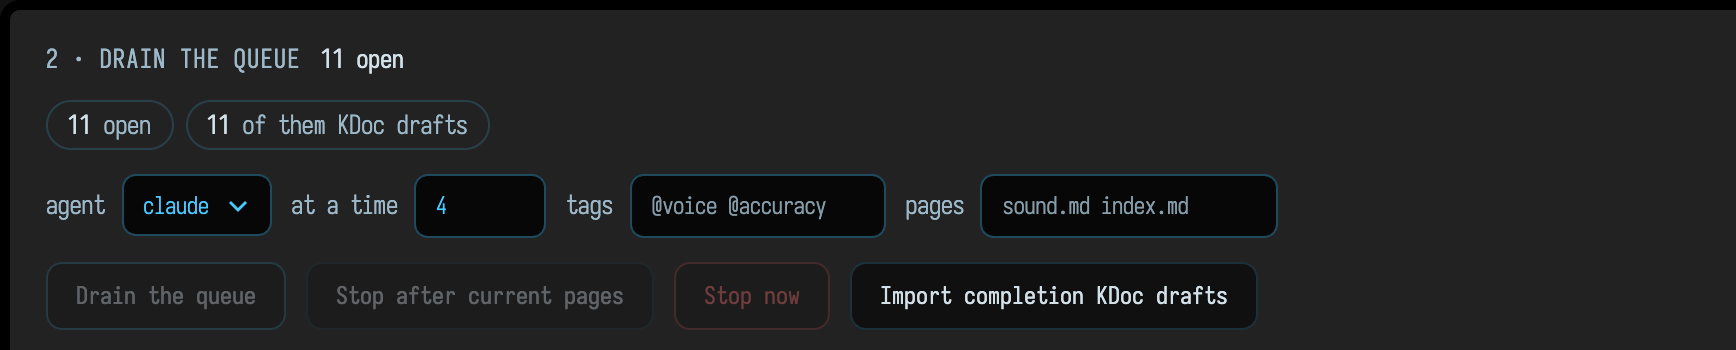
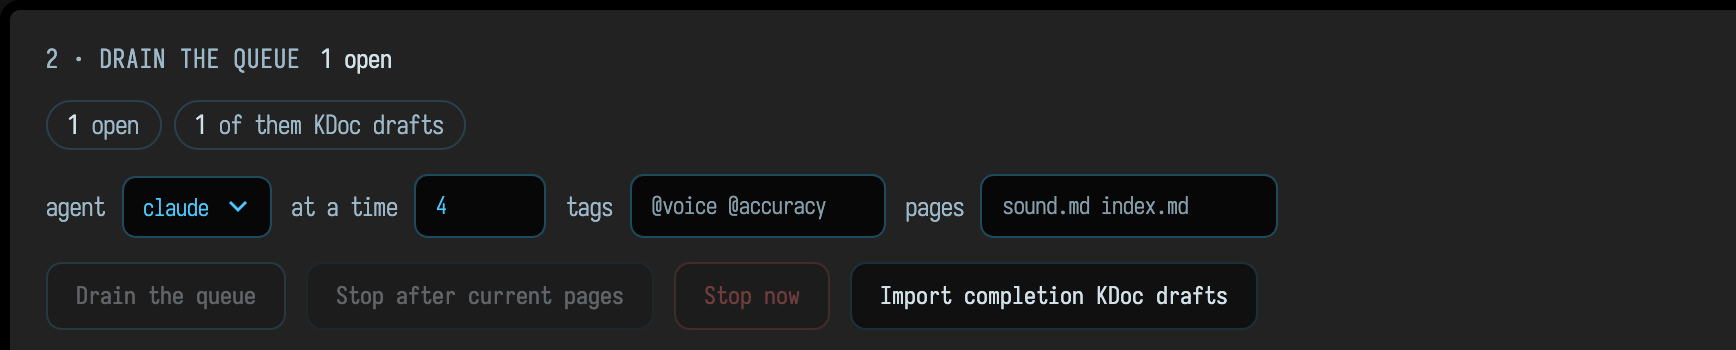
Docs: the KDoc-draft captures read a committed drafts cache
ai_doc_polish's import capture waited 150 s for a draft chip that never
came. Its input was whatever completion had cached in the checkout's
untracked .field/filestore: nothing in a fresh clone, and here one draft
whose file the package cutover had moved, so import-drafts counted it
"outside".

- import_drafts follows a moved file: the one tracked src/ file of the
  same name that still declares the symbol.
- AFIELD_COMPLETION_DRAFTS_FILE points the drafts cache at one file
  (Kotlin and docs_notes.py); the docs runner gives its Field a fresh copy
  of tools/docs_runner_inputs/generated_completion_docs.json, a real
  model draft copied verbatim.
- test_docs_runner_inputs fails at landing when that draft stops
  importing, instead of the docs build failing an hour in.
- Recaptured both ai_doc_polish figures from it.

diff --git a/src/jvmMain/kotlin/afield/ai/completion/Ai4CompletionDoc.kt b/src/jvmMain/kotlin/afield/ai/completion/Ai4CompletionDoc.kt
@@ -742,7 +742,7 @@ internal data class GeneratedCompletionDocCacheDb(
  * against a broken [cacheKey].
  */
 internal class GeneratedCompletionDocCache(
-    private val dbPath: Path = FilestoreDir.resolve(GENERATED_COMPLETION_DOCS_FILE)
+    private val dbPath: Path = generatedCompletionDocsPath()
 ) {
     private val mapper = OpenAiFileStoreCache.defaultMapper()
     private val lock = ReentrantReadWriteLock()
@@ -900,3 +900,15 @@ internal class GeneratedCompletionDocCache(
         }
     }
 }
+
+/**
+ * Points the drafts cache at one file, leaving the rest of the filestore where it is. The docs runner
+ * sets it to a fresh copy of a committed cache, so its captures of the drafts read the same input on
+ * every machine; `tools/docs_notes.py` (`DRAFT_CACHE_ENV`) honours it too.
+ */
+const val GENERATED_COMPLETION_DOCS_ENV = "AFIELD_COMPLETION_DRAFTS_FILE"
+
+/** The drafts cache: [GENERATED_COMPLETION_DOCS_ENV] when set, else [GENERATED_COMPLETION_DOCS_FILE] in the filestore. */
+fun generatedCompletionDocsPath(): Path =
+    System.getenv(GENERATED_COMPLETION_DOCS_ENV)?.trim()?.takeIf { it.isNotEmpty() }?.let { Paths.get(it) }
+        ?: FilestoreDir.resolve(GENERATED_COMPLETION_DOCS_FILE)

diff --git a/src/jvmMain/kotlin/afield/runtime/completion/CompletionDocDrafts.kt b/src/jvmMain/kotlin/afield/runtime/completion/CompletionDocDrafts.kt
@@ -20,7 +20,7 @@ import afield.media.video.*
 import afield.runtime.lifecycle.map
 import afield.ui.output.templates.filter
 import afield.ai.completion.Ai4CompletionDoc
-import afield.ai.completion.GENERATED_COMPLETION_DOCS_FILE
+import afield.ai.completion.generatedCompletionDocsPath
 import kotlinx.serialization.json.Json
 import kotlinx.serialization.json.contentOrNull
 import kotlinx.serialization.json.jsonObject
@@ -40,7 +40,7 @@ object CompletionDocDrafts {
     private val json = Json { ignoreUnknownKeys = true }
 
     fun summary(): CompletionDocDraftSummary {
-        val cachePath = afield.ai.knowledge.FilestoreDir.resolve(GENERATED_COMPLETION_DOCS_FILE)
+        val cachePath = generatedCompletionDocsPath()
         if (!Files.exists(cachePath)) {
             return CompletionDocDraftSummary(cachePath.absolutePathString(), message = "No KDoc drafts yet.")
         }

diff --git a/tools/docs_notes.py b/tools/docs_notes.py
@@ -104,6 +104,8 @@ REQUEST_KINDS = ("note", DRAFT_KIND)
 DRAFT_CACHE_FILE = "generated_completion_docs.json"
 DRAFT_DECLINED_FILE = "generated_completion_docs.declined.json"
 FILESTORE_ENV = "AFIELD_FILESTORE_DIR"
+# One file for the drafts cache, the rest of the filestore untouched; `GENERATED_COMPLETION_DOCS_ENV` in Kotlin.
+DRAFT_CACHE_ENV = "AFIELD_COMPLETION_DRAFTS_FILE"
 
 ENTRY_KINDS = ("comment", "memory", "question", "reply", "resolution", "reopen", "run", "handoff", "blocked", "unblocked")
 HANDOFF_DIR = "dev_docs/handoffs"
@@ -1069,9 +1071,11 @@ _DECLARATION_KEYWORDS = r"(?:fun|val|var|class|interface|object|typealias|enum\s
 
 
 def draft_cache_path(git: Git, explicit: str | None = None) -> Path:
-    """Where Field keeps the drafts: `$AFIELD_FILESTORE_DIR`, else `.field/filestore/` in the checkout."""
+    """Where Field keeps the drafts: `$AFIELD_COMPLETION_DRAFTS_FILE`, else in `$AFIELD_FILESTORE_DIR`, else `.field/filestore/` in the checkout."""
     if explicit:
         return Path(explicit).expanduser().resolve()
+    if os.environ.get(DRAFT_CACHE_ENV, "").strip():
+        return Path(os.environ[DRAFT_CACHE_ENV].strip()).expanduser().resolve()
     configured = os.environ.get(FILESTORE_ENV, "").strip()
     base = Path(configured).expanduser() if configured else git.root / ".field" / "filestore"
     return (base / DRAFT_CACHE_FILE).resolve()
@@ -1178,6 +1182,19 @@ def draft_note_id(key: str) -> str:
     return "draft-" + key[:24]
 
 
+def relocate_moved_source(git: Git, path: str, name: str) -> str | None:
+    """Where a draft's file went when *path* is gone: the one tracked file of the same name under
+    `src/` that still declares *name*. The cache keeps the path completion saw, so a package move
+    (the October hierarchy cutover moved most of `src/`) would otherwise turn every draft "outside"."""
+    basename = path.rsplit("/", 1)[-1]
+    found = []
+    for candidate in git.run("ls-files", "--", f"src/*/{basename}", check=False).split("\n"):
+        candidate = candidate.strip()
+        if candidate.endswith("/" + basename) and locate_declaration(git.show(None, candidate) or "", name, 0) is not None:
+            found.append(candidate)
+    return found[0] if len(found) == 1 else None
+
+
 def import_drafts(store: Store, git: Git, cache: Path, *, limit: int = 0,
                   log: Callable[[str], None] = lambda _m: None) -> dict[str, int]:
     """Add a `kdoc-draft` note for every cached draft that is ours to edit and not yet a note."""
@@ -1193,6 +1210,11 @@ def import_drafts(store: Store, git: Git, cache: Path, *, limit: int = 0,
         path, documentation = str(record.get("sourcePath", "")), str(record.get("documentation", "")).strip()
         if not documentation:
             continue
+        if in_our_tree(path) and not (git.root / path).is_file():
+            moved = relocate_moved_source(git, path, simple_name(str(record.get("sourceName", ""))))
+            if moved:
+                log(f"  moved: {path} is now {moved}")
+                path = moved
         if not in_our_tree(path) or not source_page_url(path) or not (git.root / path).is_file():
             counts["outside"] += 1
             continue

diff --git a/public/docs_hooks.py b/public/docs_hooks.py
@@ -1657,14 +1657,23 @@ class RunnerState:
         # The general automation notebook also holds draft review notes made by other test
         # runners. The notes-panel capture must see only notes from this docs runner, while
         # still staying isolated from the user's real notebook.
-        server_env = automation_server_environment(
-            self.backdoor_port,
-            extra={
-                "AFIELD_DOCS_ANNOTATIONS_STORE": str(
-                    self.repo_root / "build" / "field-docs-runner-annotations.json"
-                )
-            },
-        )
+        # The KDoc drafts the ai_doc_polish captures count and import would otherwise be whatever
+        # completion cached in this checkout's .field/filestore: nothing in a fresh clone, and on
+        # one machine a draft whose file the package cutover had moved. A fresh copy of a committed
+        # cache gives every build the same real draft (test_docs_runner_inputs keeps it importable).
+        extra_env = {
+            "AFIELD_DOCS_ANNOTATIONS_STORE": str(
+                self.repo_root / "build" / "field-docs-runner-annotations.json"
+            )
+        }
+        committed_drafts = self.repo_root / "tools" / "docs_runner_inputs" / "generated_completion_docs.json"
+        if committed_drafts.is_file():
+            drafts = self.repo_root / "build" / "field-docs-runner-completion-drafts" / committed_drafts.name
+            shutil.rmtree(drafts.parent, ignore_errors=True)
+            drafts.parent.mkdir(parents=True)
+            shutil.copyfile(committed_drafts, drafts)
+            extra_env["AFIELD_COMPLETION_DRAFTS_FILE"] = str(drafts)
+        server_env = automation_server_environment(self.backdoor_port, extra=extra_env)
         sidecar_url = self._ensure_semantic_sidecar()
         if sidecar_url:
             server_env[SIDECAR_URL_ENV] = sidecar_url

diff --git a/tools/test_docs_runner_inputs.py b/tools/test_docs_runner_inputs.py
@@ -1,0 +1,39 @@
+"""The docs runner's committed inputs still produce what its captures wait for.
+
+`public/docs_hooks.py` gives its Field a fresh copy of `tools/docs_runner_inputs/generated_completion_docs.json`
+as the KDoc drafts cache, and the ai_doc_polish page imports those drafts and waits for the queue to count
+them. A draft stops importing once its declaration gains KDoc or disappears, and the capture would then
+time out an hour into a build; this fails at landing instead.
+"""
+
+import json
+import sys
+import unittest
+from pathlib import Path
+from tempfile import TemporaryDirectory
+
+sys.path.insert(0, str(Path(__file__).resolve().parent))
+
+import docs_notes as dn  # noqa: E402
+
+REPO = Path(__file__).resolve().parent.parent
+DRAFTS = REPO / "tools" / "docs_runner_inputs" / "generated_completion_docs.json"
+
+
+class CommittedDraftsTest(unittest.TestCase):
+    def test_every_committed_draft_imports_against_this_tree(self) -> None:
+        with TemporaryDirectory() as tmp:
+            store = dn.Store(Path(tmp) / "store.json")
+            skipped: list[str] = []
+            counts = dn.import_drafts(store, dn.Git(REPO), DRAFTS, log=skipped.append)
+        records = len(json.loads(DRAFTS.read_text(encoding="utf-8"))["records"])
+        self.assertEqual(
+            counts["imported"], records,
+            f"{DRAFTS.relative_to(REPO)} has drafts that no longer import ({counts}; {skipped}). Replace each "
+            "with a real draft for a declaration under src/ that still has no KDoc: copy its record from "
+            ".field/filestore/generated_completion_docs.json after completion has drafted one.",
+        )
+
+
+if __name__ == "__main__":
+    unittest.main()

diff --git a/tools/test_docs_notes.py b/tools/test_docs_notes.py
@@ -1149,6 +1149,23 @@ class KDocDraftTest(unittest.TestCase):
         self.assertEqual(notes[dn.draft_note_id("k-shift")]["source"]["startLine"], 9)
         self.assertEqual(dn.import_drafts(self.store, self.git, self.cache)["known"], 2, "a second import adds nothing")
 
+    def test_a_draft_cached_before_its_file_moved_is_still_imported(self) -> None:
+        # The cache keeps the path completion saw; the package cutover moved src/afield/math/x.kt
+        # to src/afield/animation/x/x.kt and every such draft used to count as "outside".
+        cache = draft_cache(self.repo.root / "moved" / dn.DRAFT_CACHE_FILE, {
+            "k-moved": record("afield.scale", "src/jvmMain/kotlin/afield/old/Foo.kt", 6),
+        })
+        counts = dn.import_drafts(self.store, self.git, cache)
+        self.assertEqual((counts["imported"], counts["outside"]), (1, 0))
+        note = next(n for n in self.store.notes() if n["id"] == dn.draft_note_id("k-moved"))
+        self.assertEqual((note["source"]["path"], note["source"]["startLine"]), (KT, 6))
+
+    def test_a_draft_whose_file_is_gone_stays_outside(self) -> None:
+        cache = draft_cache(self.repo.root / "gone" / dn.DRAFT_CACHE_FILE, {
+            "k-gone": record("afield.scale", "src/jvmMain/kotlin/afield/old/Gone.kt", 6),
+        })
+        self.assertEqual(dn.import_drafts(self.store, self.git, cache)["outside"], 1)
+
     def test_a_draft_follows_its_declaration(self) -> None:
         dn.import_drafts(self.store, self.git, self.cache)
         draft = next(n for n in self.store.notes() if n["id"] == dn.draft_note_id("k-scale"))

diff --git a/dev_docs/GUARD_CORPORA.md b/dev_docs/GUARD_CORPORA.md
@@ -77,7 +77,7 @@ property that makes a page like this checkable by a person at all.
 | family | count | how | what it selects |
 | --- | --- | --- | --- |
 | `tools/check_*.py` | 12 | `ls -1 tools/check_*.py` | standalone checker scripts |
-| `tools/test_*.py` | 91 | `ls -1 tools/test_*.py` | unittest suites, all of them in `check` via `checkPythonTools` |
+| `tools/test_*.py` | 92 | `ls -1 tools/test_*.py` | unittest suites, all of them in `check` via `checkPythonTools` |
 | `*Guard*.kt` + `*ContractTest.kt` | 31 | `find src -name '*Guard*.kt' -o -name '*ContractTest.kt'` | a **half-corpus by construction** — see the paragraph under this table |
 | Gradle `check…` JavaExec guards | 11 | `grep -o 'tasks.register<JavaExec>("check[A-Za-z]*' build.gradle.kts` | the guards `check` reaches by spawning a JVM main |
 
